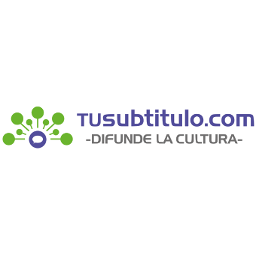
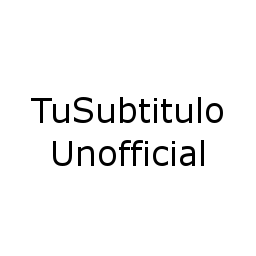
Unofficial

Changed region(s): [[0.0, 0.375, 1.0, 0.6562]]

diff --git a/service.py b/service.py
@@ -1,7 +1,7 @@
 # -*- coding: utf-8 -*- 
 
 """
-This addon is a modification of m0r3's addon for Subtitulos.es, adapted to TuSubtitulo.com
+This addon is a modification of m0r3's addon for Subtitulos.es, adapted to TuSubtitulo
 
 Original code by m0re (https://github.com/m0r3)
 """

diff --git a/resources/lib/TuSubUtilities.py b/resources/lib/TuSubUtilities.py
@@ -1,7 +1,7 @@
 # -*- coding: utf-8 -*-
 
 # based on subtitulos.es subtitles
-# developed by El_Happy for TuSubtitulo.com and XBMC.org
+# developed by El_Happy for use TuSubtitulo (unofficially) and XBMC.org
 
 import xbmc
 import re

diff --git a/README.md b/README.md
@@ -1,3 +1,3 @@
 service.subtitles.tusubtitulo
 ==============================
-TuSubtitulo subtitle service plugin for XBMC
+TuSubtitulo Unofficial subtitle service plugin for XBMC
